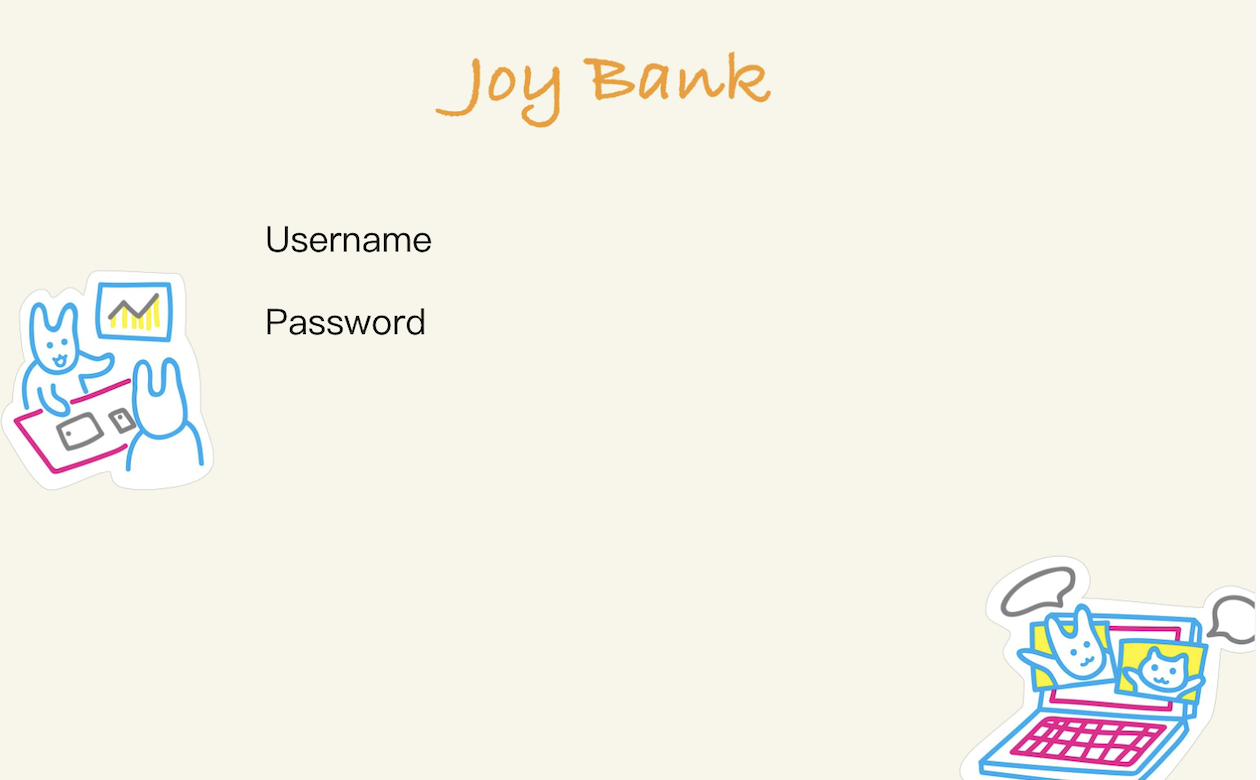
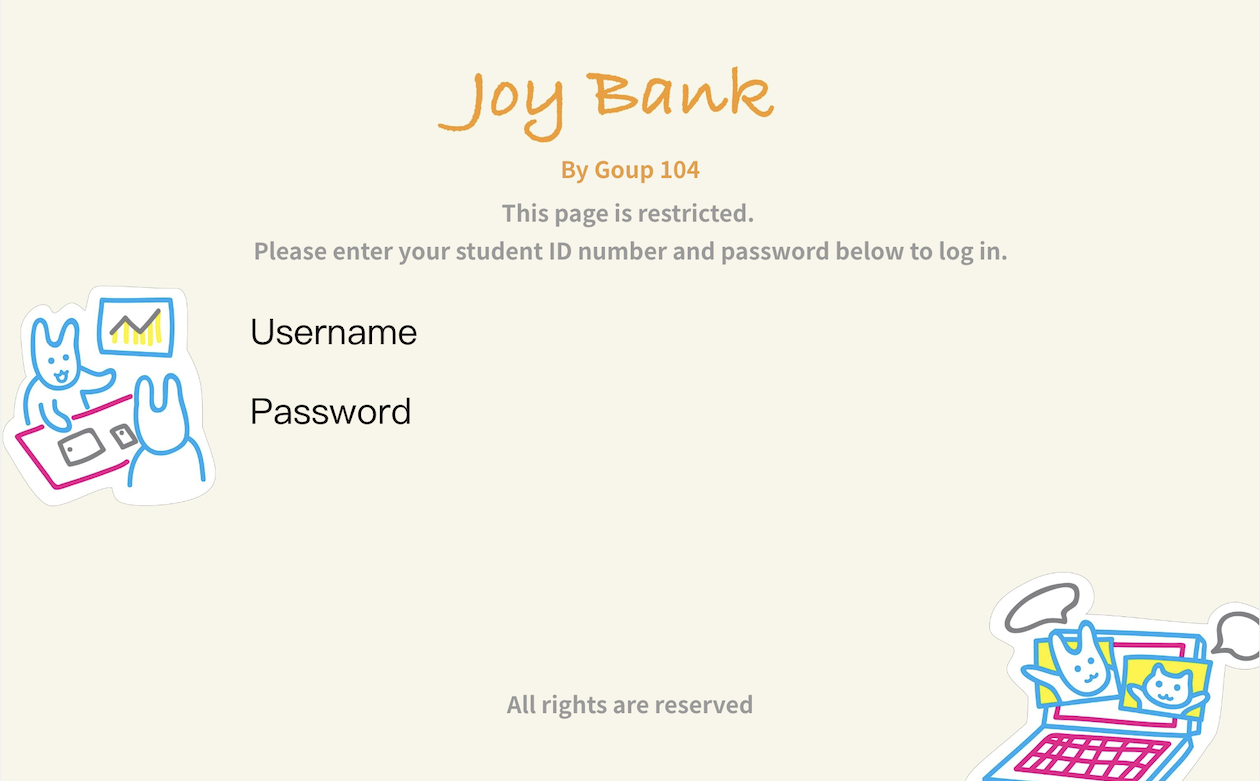
更改页面1——登陆页面

diff --git a/src/main/java/com/virtualbank/ui/Page01_Login.java b/src/main/java/com/virtualbank/ui/Page01_Login.java
@@ -42,29 +42,41 @@ public class Page01_Login extends JFrame {
         // 输入框
         Border border = BorderFactory.createLineBorder(new Color(0x3d6de1), 2);
         username_textField = new JTextField();
-        username_textField.setBounds(450, 220, 360, 50);
+        username_textField.setBounds(450, 310, 360, 50);
         Font font = new Font(username_textField.getFont().getName(), Font.PLAIN, 20); // 创建一个新字体对象，设置大小为20
         username_textField.setFont(font);
         username_textField.setBorder(border);
         backgroundLabel.add(username_textField);
 
         password_textField = new JPasswordField();
-        password_textField.setBounds(450, 300, 360, 50);
+        password_textField.setBounds(450, 385, 360, 50);
         password_textField.setFont(font);
         password_textField.setBorder(border);
         backgroundLabel.add(password_textField);
 
+        // 提示注册
+        JLabel registerNote1 = new JLabel("If you haven't had an account,");
+        JLabel registerNote2 = new JLabel("click on \"Register\" below to register one.");
+        registerNote1.setForeground(new Color(0x959aa4));
+        registerNote2.setForeground(new Color(0x959aa4));
+        registerNote1.setBounds(505, 450, 1000, 20);
+        registerNote2.setBounds(465, 468, 1000, 20);
+        registerNote1.setFont(new Font(registerNote1.getFont().getName(), Font.PLAIN, 17));
+        registerNote2.setFont(new Font(registerNote1.getFont().getName(), Font.PLAIN, 17));
+        backgroundLabel.add(registerNote1);
+        backgroundLabel.add(registerNote2);
+
         // 确认按钮
         confirmButton = new JButton();
-        confirmButton.setBounds(530, 375, 200, 55);
+        confirmButton.setBounds(440, 505, 200, 55);
         ImageIcon confirmButtonIcon = new ImageIcon("images/ConfirmButton.png");
         confirmButton.setIcon(confirmButtonIcon);
         confirmButton.setBorder(null);
         backgroundLabel.add(confirmButton);
 
         // 注册按钮
-        registerButton = new JButton("Register");
-        registerButton.setBounds(580, 435, 122, 44);
+        registerButton = new JButton();
+        registerButton.setBounds(630, 505, 200, 55);
         ImageIcon registerButtonIcon = new ImageIcon("images/RegisterButton.png");
         registerButton.setIcon(registerButtonIcon);
         registerButton.setBorder(null);
